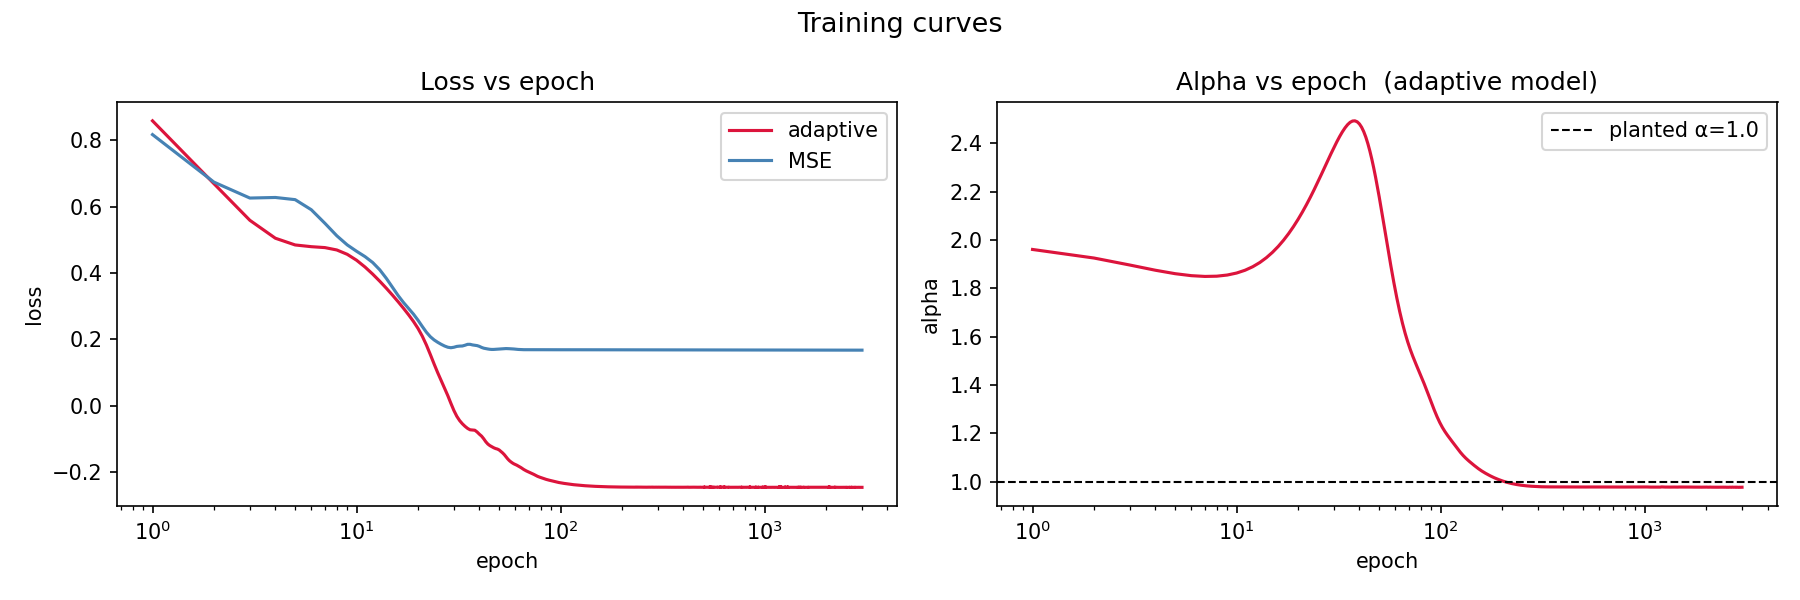
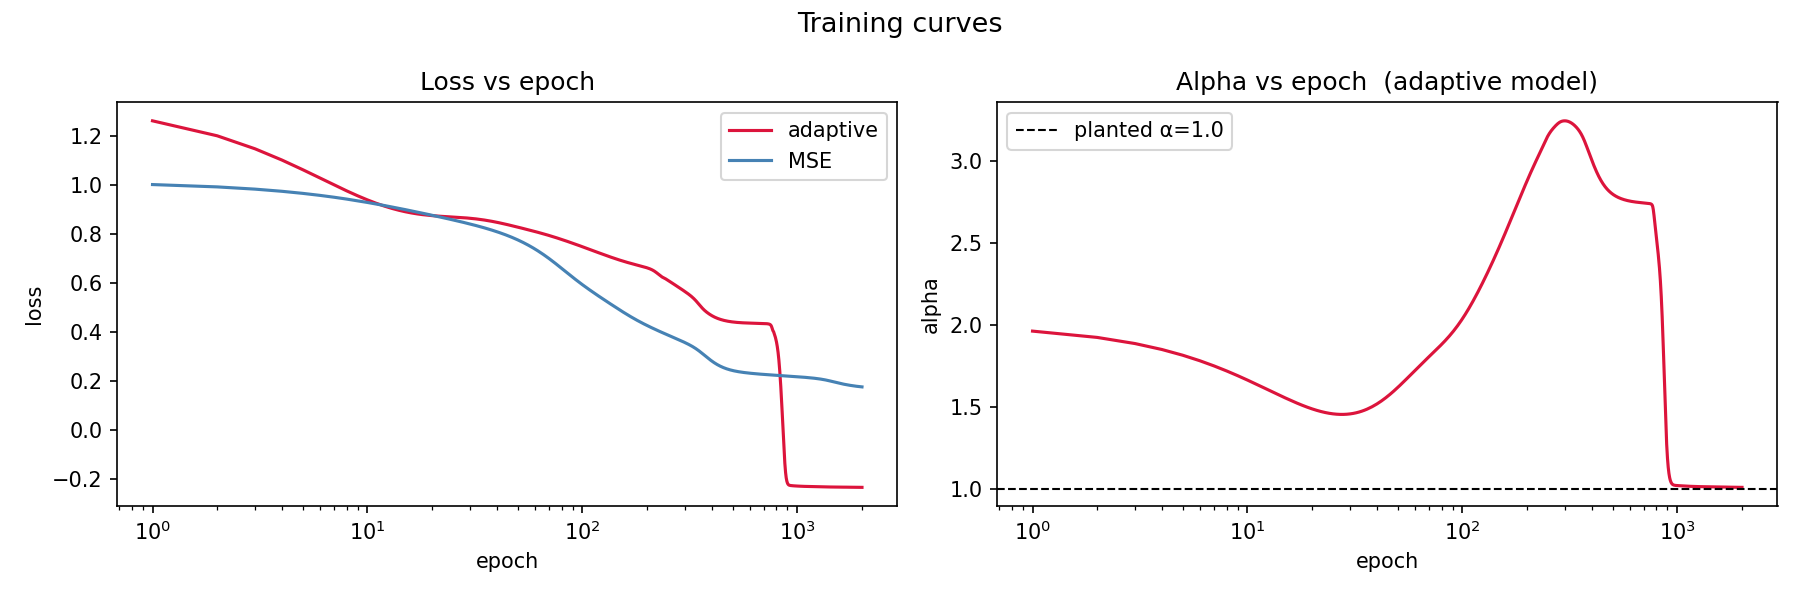
Update MLP initialization parameters and adjust training configuration for improved performance; update result images

diff --git a/AI/idea.py b/AI/idea.py
@@ -106,7 +106,7 @@ class AdaptivePowerLoss(nn.Module):
 # A small regression network
 # -----------------------------------------------------------------------------
 class MLP(nn.Module):
-    def __init__(self, in_dim: int = 1, hidden: int = 64, out_dim: int = 1):
+    def __init__(self, in_dim: int = 1, hidden: int = 2, out_dim: int = 1):
         super().__init__()
         self.net = nn.Sequential(
             nn.Linear(in_dim, hidden), nn.GELU(),
@@ -144,7 +144,7 @@ def make_dataset(n=4000, noise_shape=1.2, noise_scale=0.3, seed=0):
 # -----------------------------------------------------------------------------
 # Training
 # -----------------------------------------------------------------------------
-def train(model, loss_fn, x, y, epochs=3000, log_every=500):
+def train(model, loss_fn, x, y, epochs=2000, log_every=250):
     has_params = len(list(loss_fn.parameters())) > 0
     # mild weight decay on the network stops it from fitting (and thinning) the
     # noise, which would otherwise bias the shape estimate upward. The loss's own